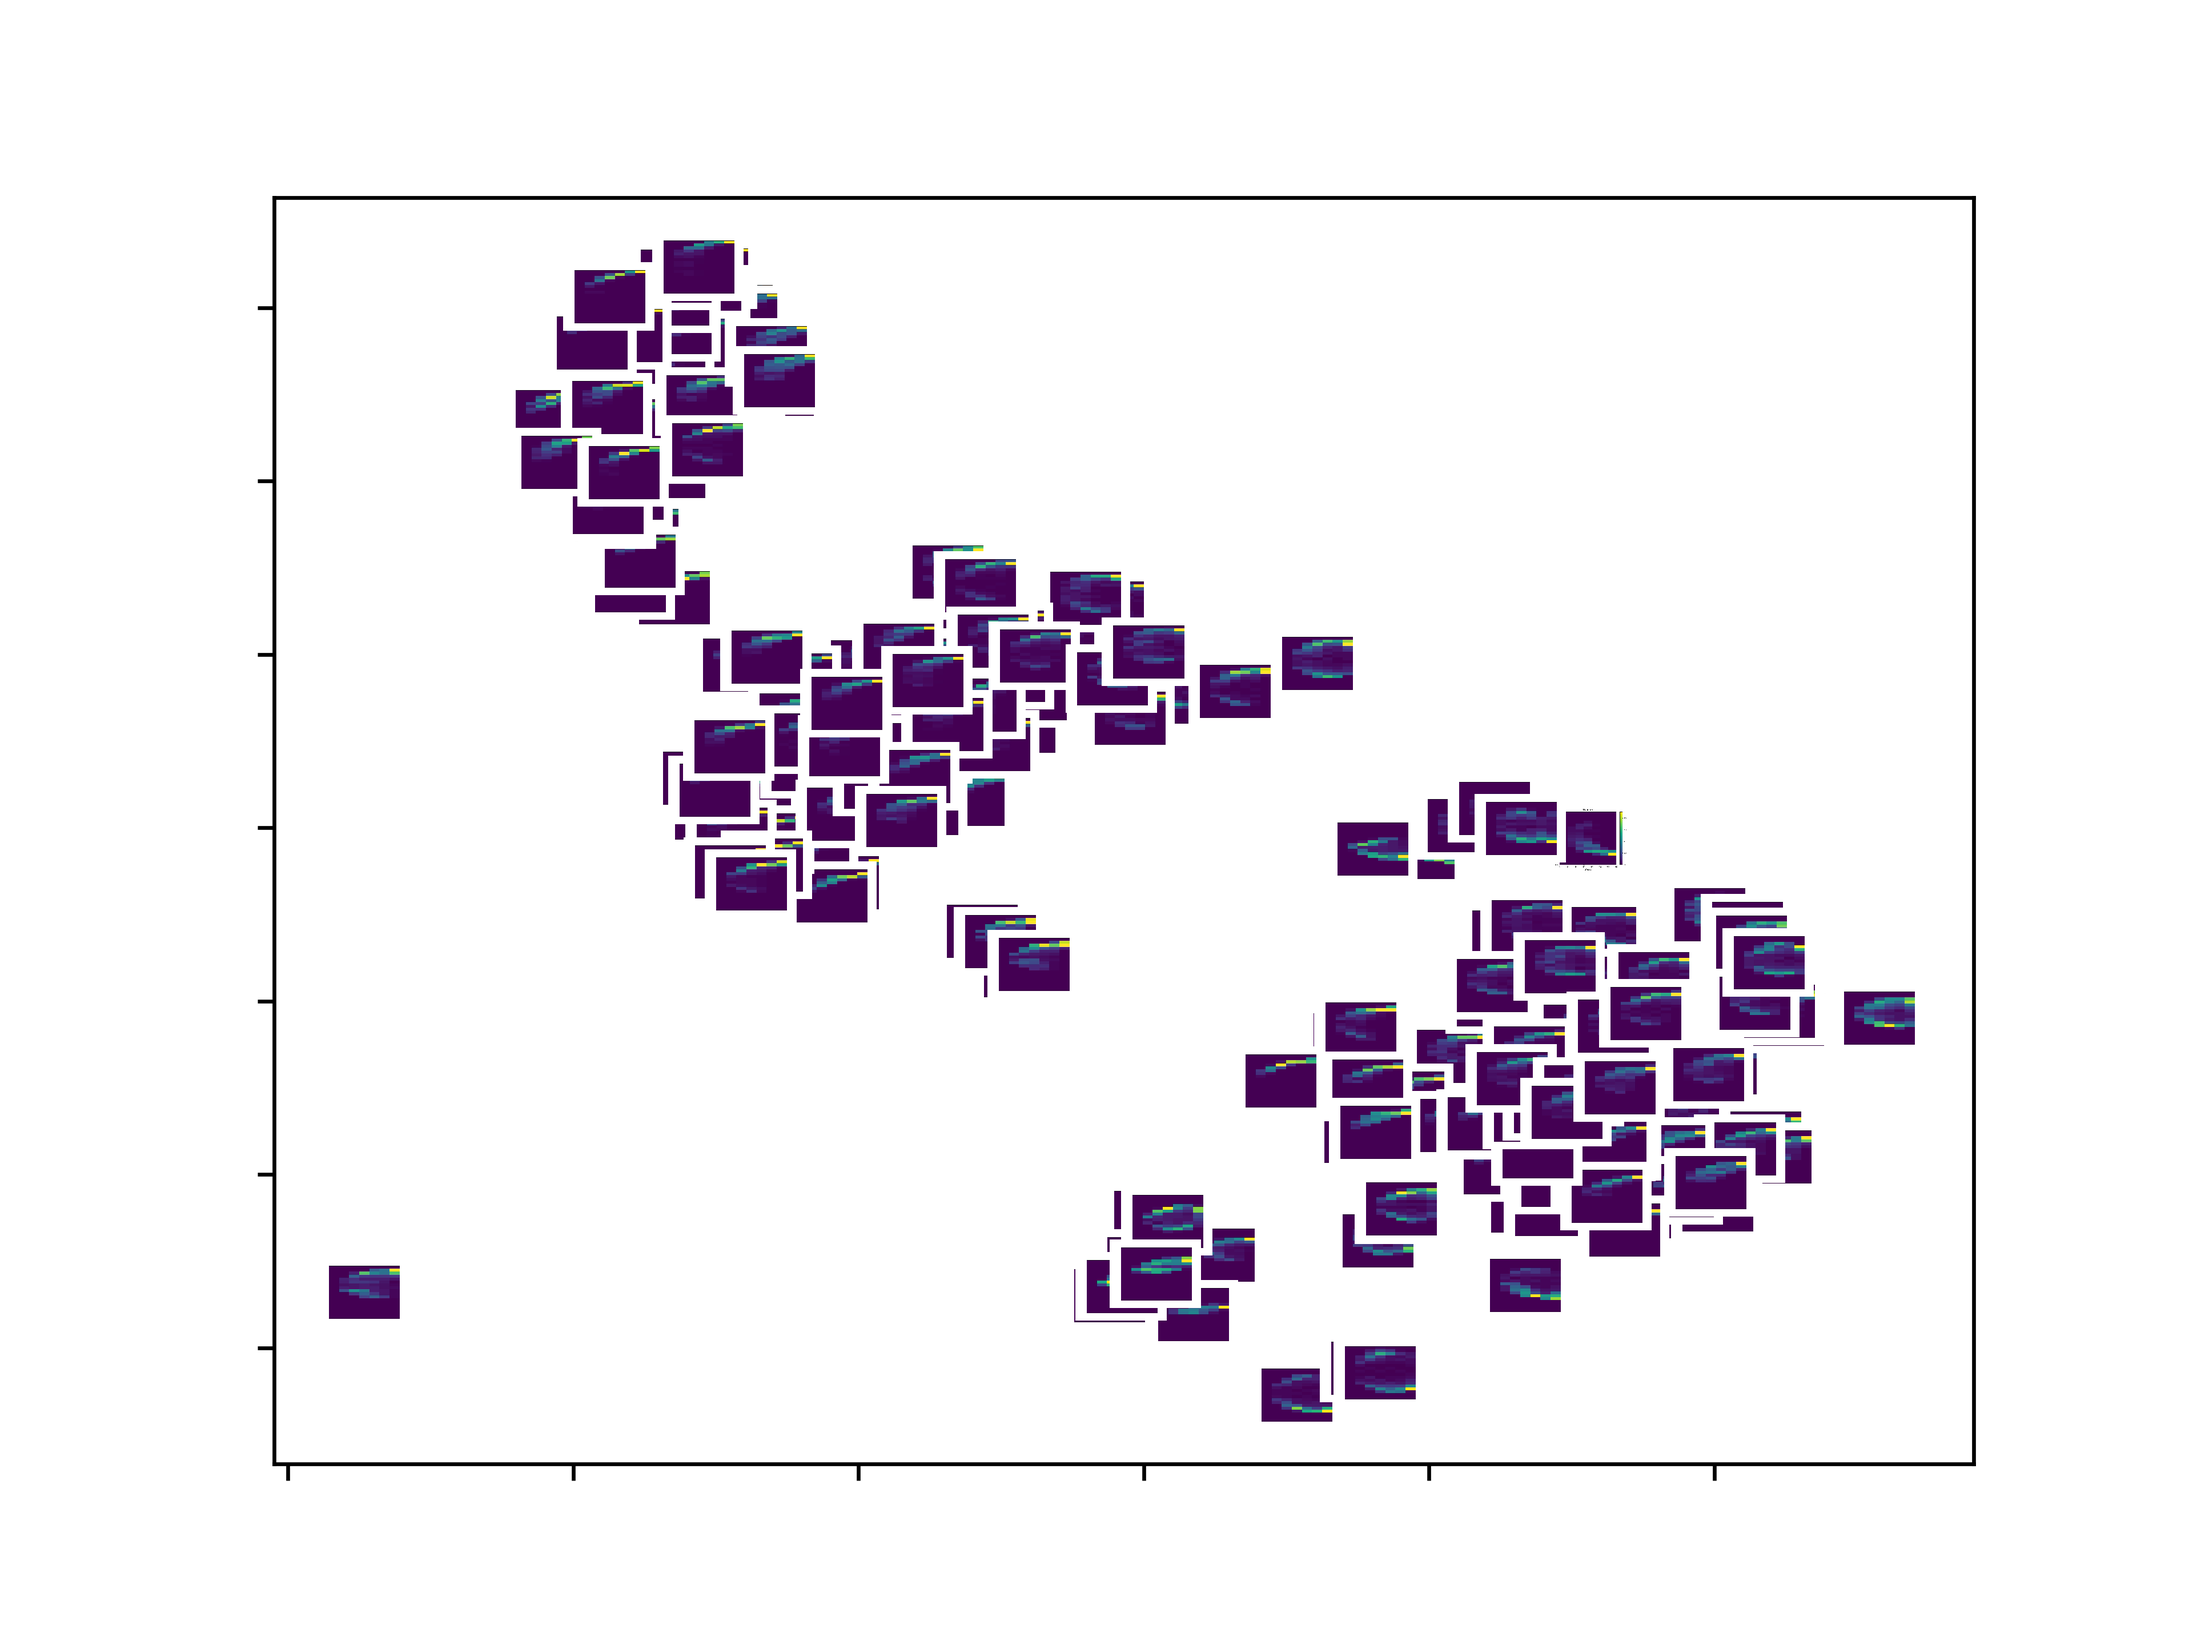
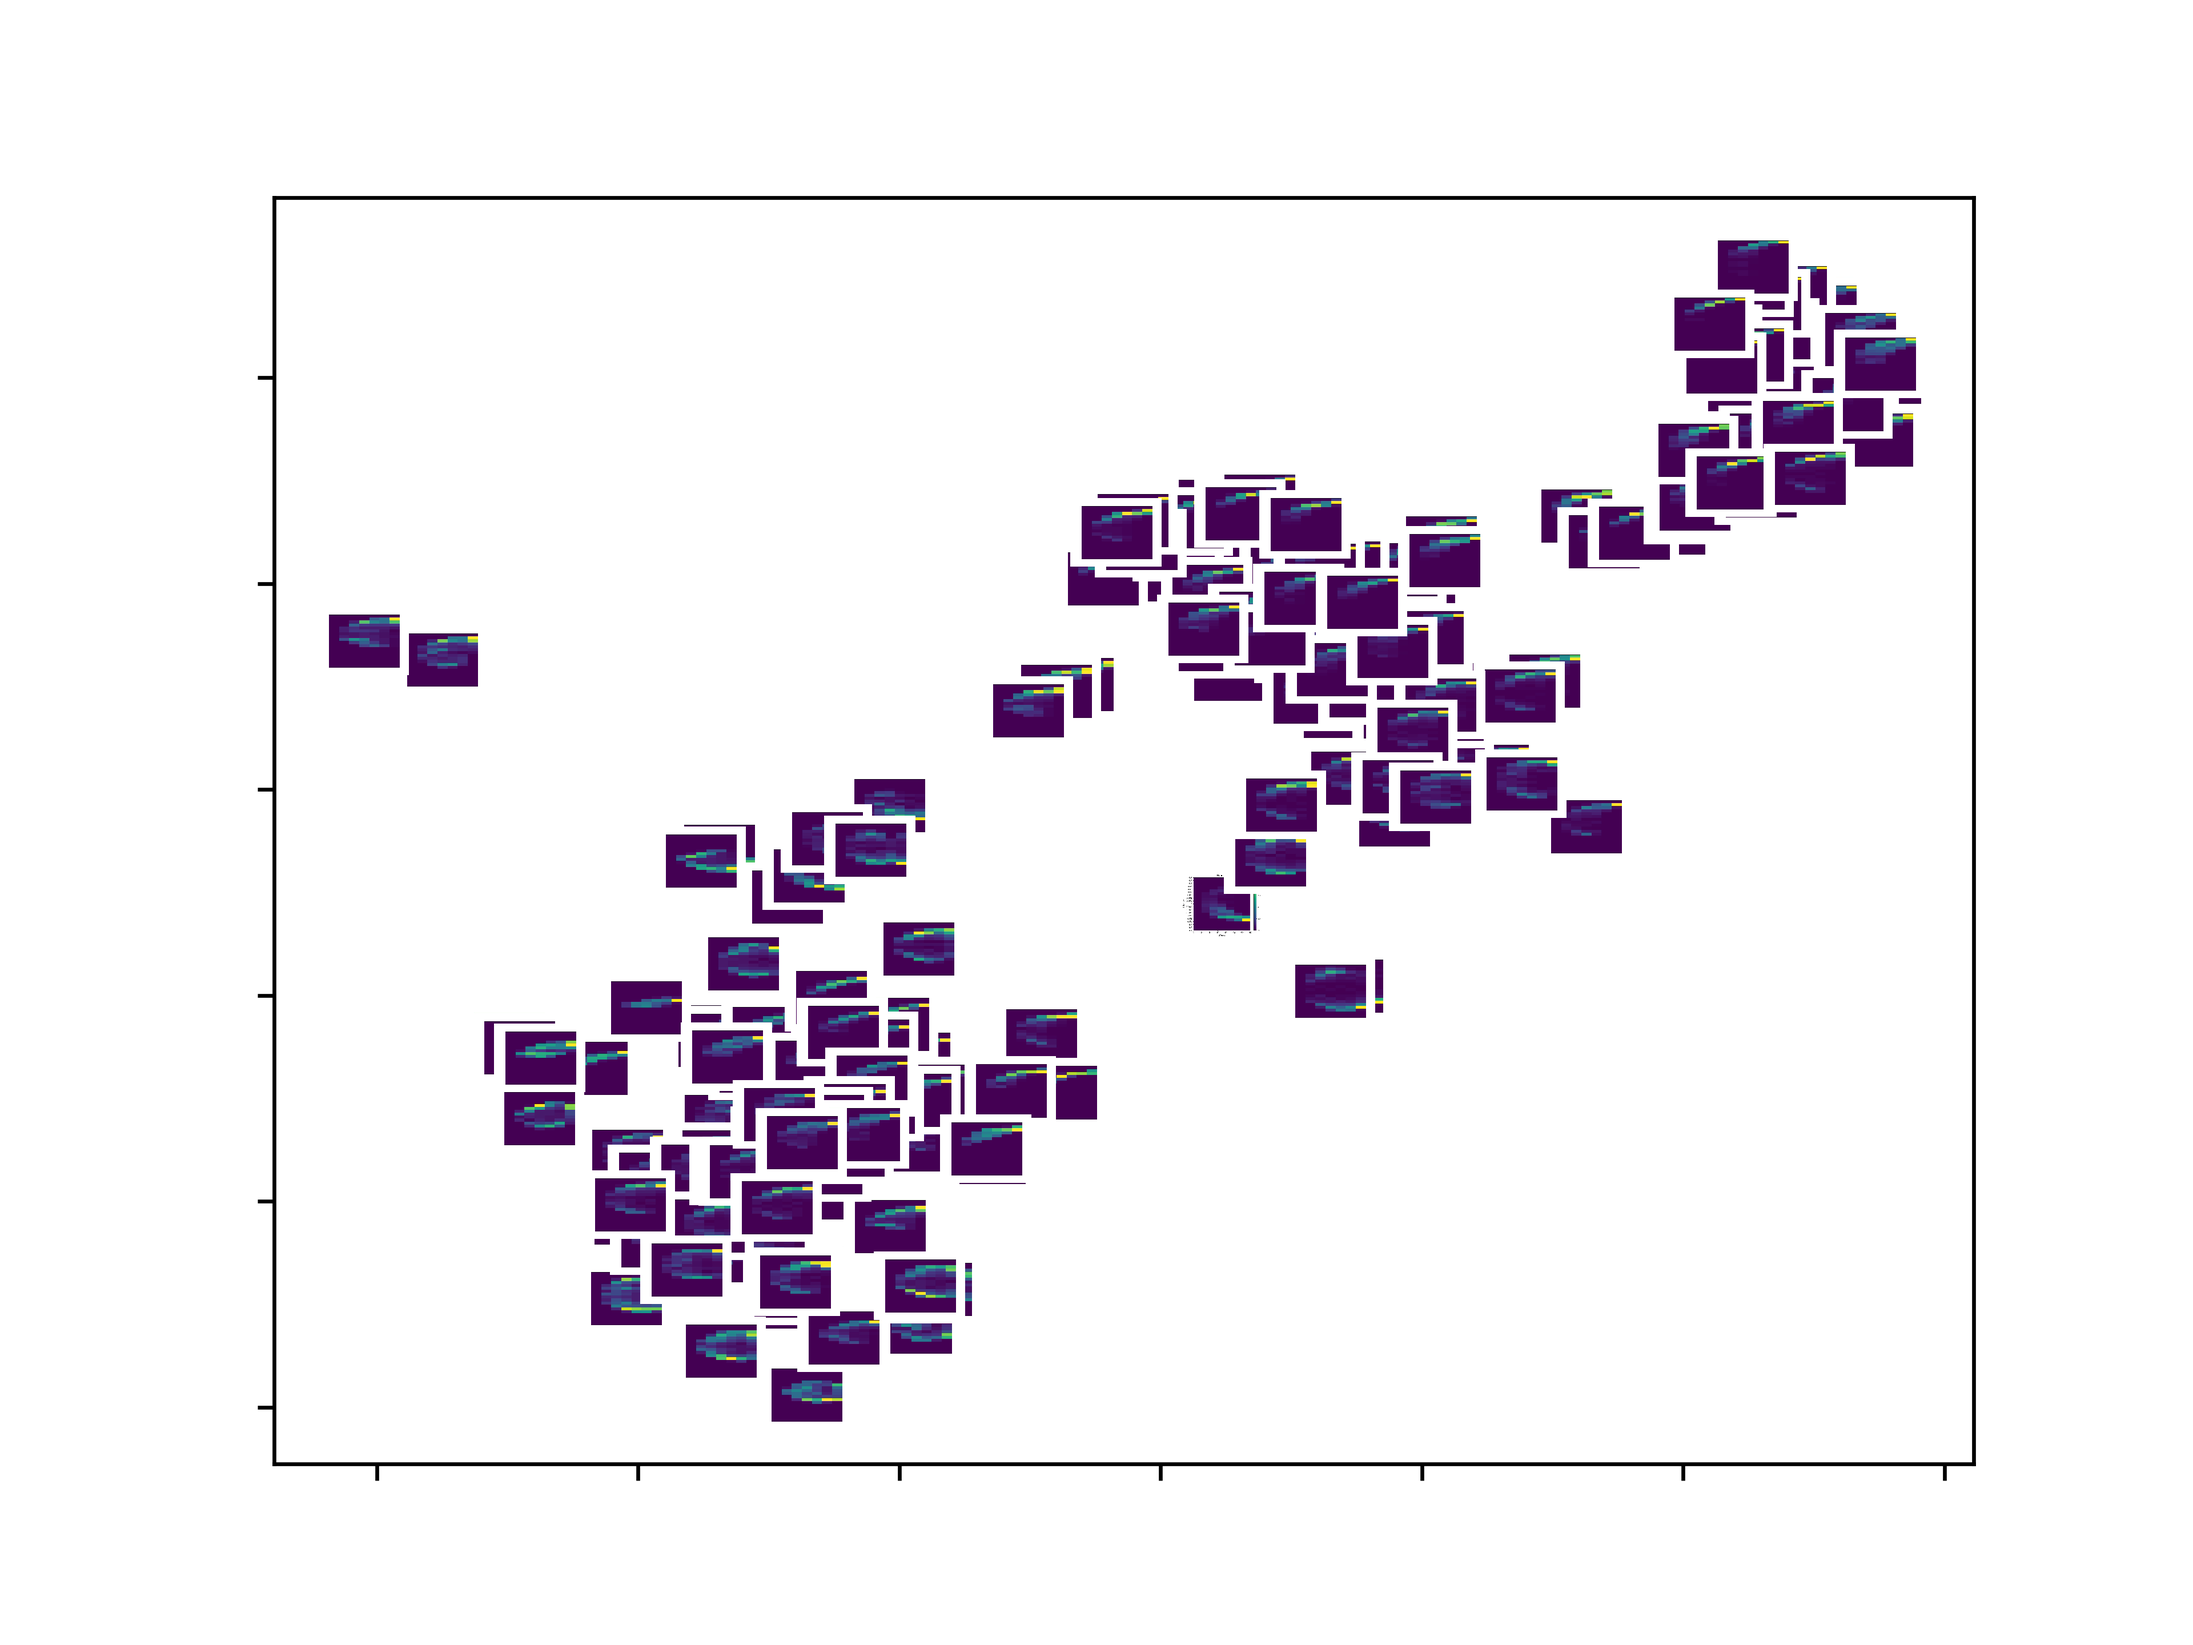
updates

diff --git a/run_tsne.py b/run_tsne.py
@@ -4,6 +4,7 @@ import numpy as np
 import pandas as pd
 import imageio
 import os
+import matplotlib
 import matplotlib.pyplot as plt
 from matplotlib.pyplot import cm
 import matplotlib.mlab as mlab
@@ -11,6 +12,7 @@ from matplotlib.ticker import NullFormatter
 from mpl_toolkits.mplot3d import Axes3D
 from matplotlib.offsetbox import OffsetImage, AnnotationBbox
 from sklearn.cluster import KMeans
+from sklearn.metrics import silhouette_samples
 
 # trying to compare the tsne with pca
 # will also compare runtimes
@@ -46,7 +48,7 @@ def plot_images(embeddings, arr, plot_images=False, save_name=None, show_image=T
         if plot_images == True:
             for i, (x, y) in enumerate(zip(xx, yy)):
                 print("CREATING IMAGES FOR " + str(i))
-                im = OffsetImage(imageio.imread(arr[i]), zoom=0.03)
+                im = OffsetImage(imageio.imread(arr[i]), zoom=0.025)
                 im.set_height(3)
                 im.set_width(3)
                 ab = AnnotationBbox(im, (x, y), xycoords='data', frameon=False)
@@ -55,11 +57,13 @@ def plot_images(embeddings, arr, plot_images=False, save_name=None, show_image=T
             ax.autoscale()
 
         # plot the 2D data points
-        for i in range(embeddings.shape[0]):
-            print("PLOTTING " + str(i))
-            ax.scatter(xx[i], yy[i], c=pred, s=50)
+        # for i in range(embeddings.shape[0]):
+        #     print("PLOTTING " + str(i))
+        #     colors = ['red','green','blue','purple']
+        #     ax.scatter(xx[i], yy[i], c=pred, cmap=matplotlib.colors.ListedColormap(colors))
+        ax.scatter(embeddings[:, 0], embeddings[:, 1], c=pred)
 
-        if centers:
+        if centers is not None and centers.any():
             ax.scatter(centers[:, 0], centers[:, 1], c='black', s=200, alpha=0.5)
 
 
@@ -73,9 +77,17 @@ def plot_images(embeddings, arr, plot_images=False, save_name=None, show_image=T
         if show_image:
             plt.show()
 
-# def k_means(embeddings):
+def save_output(names, clusters):
+    f = open('main.out', 'w')
+    names = [t.split('2')[0].split('/')[1] for t in names]
+    for i, name in enumerate(names):
+        f.write("%s in cluster: %d\n" % (name, clusters[i]))
 
+    f.close()
 
+# def run_k_means_metrics(data):
+#     for i in range(20):
+        
 
 
 tsne = TSNE(n_components=2, verbose=1, perplexity=40, n_iter=300)
@@ -83,13 +95,15 @@ data, arr = load_data("test/")
 embeddings = tsne.fit_transform(data, arr)
 
 # plot the initial embeddings
-plot_images(embeddings, arr, plot_images=True, save_name="plots/pre_clustering_plot_0.03_no_images.png", show_image=False)
+plot_images(embeddings, arr, plot_images=True, save_name="plots/pre_clustering_plot_6_images.png", show_image=False)
 
 # k-means example
 kmeans = KMeans(n_clusters=4)
 kmeans.fit(embeddings)
 y_kmeans = kmeans.predict(embeddings)
 centers = kmeans.cluster_centers_
-plot_images(embeddings, arr, plot_images=True, save_name="plots/pre_clustering_plot_kmeans_4_images.png", show_image=True, pred=y_kmeans, centers=centers)
+plot_images(embeddings, arr, plot_images=False, save_name="plots/clustering_plot_kmeans_6_images.png", show_image=True, pred=y_kmeans, centers=centers)
+
+save_output(arr, y_kmeans)
 
 
